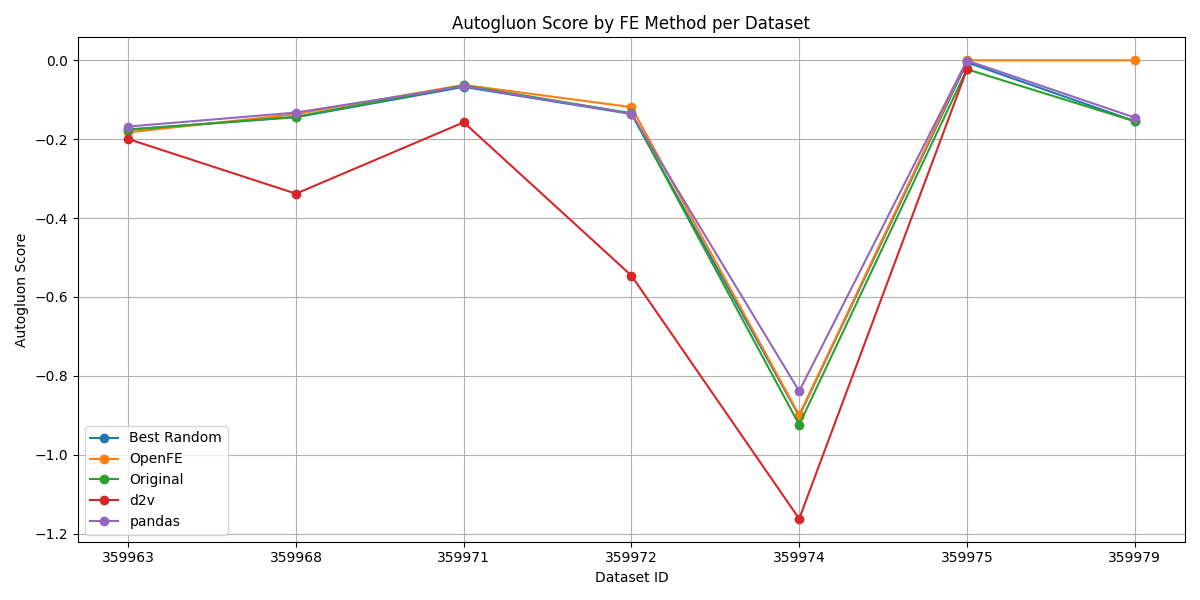
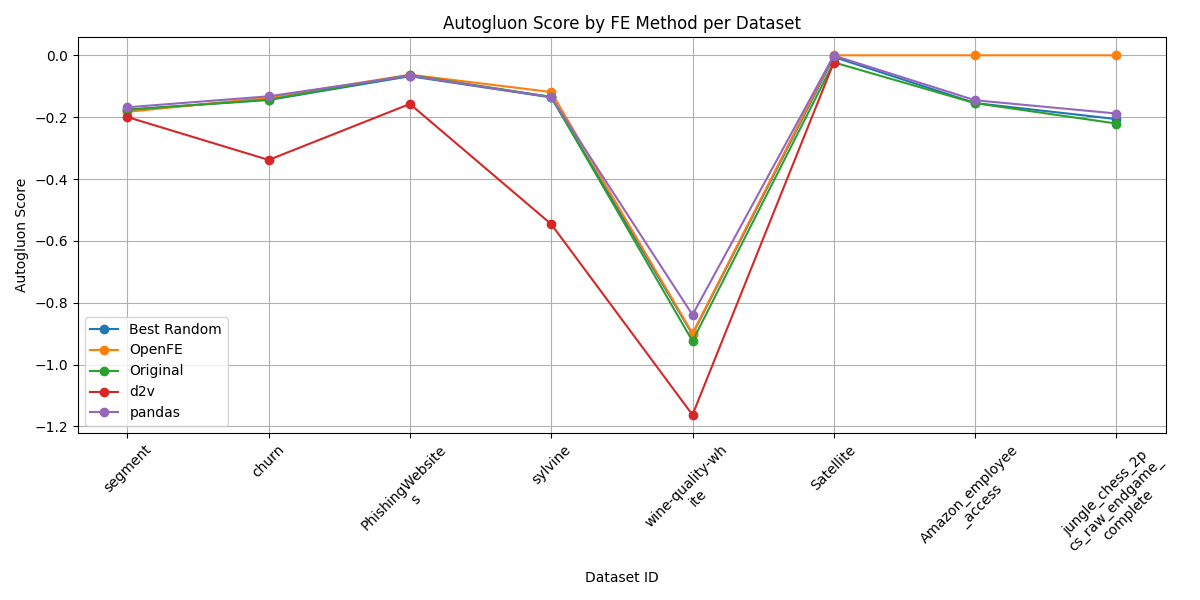
Update result graphic - use dataset names

diff --git a/src/Apply_and_Test/analyse_results.py b/src/Apply_and_Test/analyse_results.py
@@ -1,36 +1,68 @@
 import glob
+
+import openml
 import pandas as pd
 import matplotlib.pyplot as plt
 
-result_files = glob.glob("test_results/Result_*.parquet")
-all_results = []
 
-for result_file in result_files:
-    df = pd.read_parquet(result_file)
-    dataset_id = int(result_file.split("Result_")[1].split(".parquet")[0])
-    df["origin"] = df["origin"].apply(lambda x: "Best Random" if str(x).startswith("Random") else x)
-    df["dataset_id"] = dataset_id
-    all_results.append(df)
+def insert_line_breaks(name, max_len=20):
+    if len(name) > max_len:
+        # Split into chunks of `max_len`, preserving words if possible
+        parts = [name[i:i+max_len] for i in range(0, len(name), max_len)]
+        return '\n'.join(parts)
+    else:
+        return name
 
-df_all = pd.concat(all_results, ignore_index=True)
 
-# Convert score to error (you can adjust this as needed)
-df_all["error"] = 1 - df_all["score"]
+def main():
+    result_files = glob.glob("test_results/Result_*.parquet")
+    all_results = []
 
-# Pivot to have datasets on x, methods on lines
-df_pivot = df_all.pivot(index="dataset_id", columns="origin", values="score")
-df_pivot = df_pivot.sort_index()  # Sort by dataset ID
+    for result_file in result_files:
+        df = pd.read_parquet(result_file)
+        dataset_id = int(result_file.split("Result_")[1].split(".parquet")[0])
+        df["origin"] = df["origin"].apply(lambda x: "Best Random" if str(x).startswith("Random") else x)
+        df["dataset_id"] = dataset_id
+        all_results.append(df)
 
-# Plot
-plt.figure(figsize=(12, 6))
-for method in df_pivot.columns:
-    plt.plot(df_pivot.index.astype(str), df_pivot[method], marker='o', label=method)
+    df_all = pd.concat(all_results, ignore_index=True)
 
-plt.xlabel("Dataset ID")
-plt.ylabel("Autogluon Score")
-plt.title("Autogluon Score by FE Method per Dataset")
-plt.legend()
-plt.grid(True)
-plt.tight_layout()
-plt.savefig("test_results/Autogluon_Score_by_FE_Method.png")
-plt.show()
+    # Convert score to error (you can adjust this as needed)
+    df_all["error"] = 1 - df_all["score"]
+
+    # Pivot to have datasets on x, methods on lines
+    df_pivot = df_all.pivot(index="dataset_id", columns="origin", values="score")
+    df_pivot = df_pivot.sort_index()  # Sort by dataset ID
+
+    datasets = df_pivot.index.astype(str)
+    dataset_list = []
+    for dataset in datasets.tolist():
+        task = openml.tasks.get_task(
+            int(dataset),
+            download_splits=True,
+            download_data=True,
+            download_qualities=True,
+            download_features_meta_data=True,
+        )
+        dataset = task.get_dataset().name
+        dataset_list.append(dataset)
+    dataset_list_wrapped = [insert_line_breaks(name, max_len=15) for name in dataset_list]
+
+    # Plot
+    plt.figure(figsize=(12, 6))
+    for method in df_pivot.columns:
+        plt.plot(dataset_list_wrapped, df_pivot[method], marker='o', label=method)
+
+    plt.xlabel("Dataset ID")
+    plt.xticks(rotation=45)  # or 90
+    plt.ylabel("Autogluon Score")
+    plt.title("Autogluon Score by FE Method per Dataset")
+    plt.legend()
+    plt.grid(True)
+    plt.tight_layout()
+    plt.savefig("test_results/Autogluon_Score_by_FE_Method.png")
+    plt.show()
+
+
+if __name__ == "__main__":
+    main()
